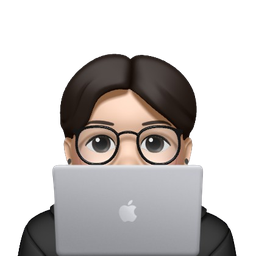
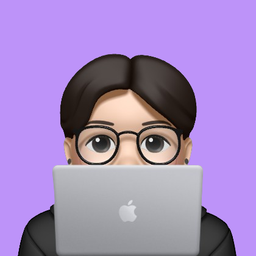
feat: project screenshots, smaller headings, richer Vanrays HUB detail page
Favicon now uses the memoji on a purple background. Project card titles
and the two project detail hero headings are scaled down. Semantic
Search and Vanrays HUB cards show real product screenshots as their
background image, and the Vanrays HUB page adds a Product section with
a dashboard screenshot plus a new Infrastructure section covering
isolated Railway PR previews and Supabase auth. Role copy across the
page now distinguishes the admin/booker console from the owner/cleaner/
maintenance portals.

diff --git a/src/app/projects/vanrays-hub/page.tsx b/src/app/projects/vanrays-hub/page.tsx
@@ -1,19 +1,22 @@
 import type { Metadata } from 'next';
+import Image from 'next/image';
 import Link from 'next/link';
 import { Navbar, type NavSection } from '@/app/components/molecules/Navbar/Navbar';
 import { ArrowRight } from '@/app/components/atoms/icons';
 
 const NAV: NavSection[] = [
-  { id: 'overview', label: 'Overview', n: '01' },
-  { id: 'modules',  label: 'Modules',  n: '02' },
-  { id: 'portals',  label: 'Portals',  n: '03' },
-  { id: 'stack',    label: 'Stack',    n: '04' },
+  { id: 'product',        label: 'Product',        n: '01' },
+  { id: 'overview',       label: 'Overview',       n: '02' },
+  { id: 'modules',        label: 'Modules',        n: '03' },
+  { id: 'portals',        label: 'Portals',        n: '04' },
+  { id: 'infrastructure', label: 'Infrastructure', n: '05' },
+  { id: 'stack',          label: 'Stack',          n: '06' },
 ];
 
 export const metadata: Metadata = {
   title: 'Vanrays HUB — Rosa Reyes',
   description:
-    "Operations platform for Vanrays' rental business: bookings, cleaning, maintenance, and owner settlements in one system, with separate portals for owners, cleaners, and maintenance techs.",
+    "Operations platform for Vanrays' rental business: bookings, cleaning, maintenance, and owner settlements in one system, with a central console for admins and bookers plus scoped portals for owners, cleaners, and maintenance techs.",
 };
 
 const tags = ['React', 'TypeScript', 'Node.js', 'Supabase', 'PostgreSQL', 'Railway'];
@@ -60,7 +63,22 @@ const modules = [
   {
     n: '06',
     title: 'Team & audit',
-    desc: 'Manage bookers, cleaners, and technicians, with portal access per role and a full audit trail of every action in the system.',
+    desc: 'Manage admins, bookers, cleaners, and technicians. Admins and bookers work from the main console; owners, cleaners, and techs get scoped portal access. Full audit trail of every action.',
+  },
+];
+
+const infrastructure = [
+  {
+    n: '01',
+    title: 'Isolated PR previews',
+    tag: 'Railway',
+    desc: 'Every pull request deploys to its own preview environment on Railway, each with its own isolated Postgres database seeded independently of production. QA runs against real flows, bookings, cleanings, settlements, without ever touching live data.',
+  },
+  {
+    n: '02',
+    title: 'Auth & access control',
+    tag: 'Supabase',
+    desc: 'Supabase Auth handles login and session management across the ops console and every portal. Role checks run server-side on top of it, so an owner, cleaner, or tech only ever sees data scoped to them.',
   },
 ];
 
@@ -112,7 +130,7 @@ export default function VanraysHubPage() {
 
           <div className="flex flex-col md:flex-row md:items-end md:justify-between gap-8">
             <div>
-              <h1 className="font-display font-normal text-[clamp(40px,5.5vw,80px)] leading-[1.03] tracking-[-0.025em] text-text mb-5">
+              <h1 className="font-display font-normal text-[clamp(32px,4.5vw,60px)] leading-[1.03] tracking-[-0.025em] text-text mb-5">
                 Vanrays<br />HUB
               </h1>
               <p className="text-[16px] leading-[1.65] text-dim max-w-130">
@@ -129,6 +147,26 @@ export default function VanraysHubPage() {
           </div>
         </section>
 
+        {/* ── Product ── */}
+        <section id="product" className="scroll-mt-25 py-16 md:py-20 border-b border-line">
+          <div className="flex items-center gap-3.5 mb-8 font-mono text-[11px] tracking-[0.16em] uppercase text-accent">
+            <span>Product</span>
+            <span className="flex-1 h-px bg-line" />
+          </div>
+          <div className="rounded-3.5 border-line overflow-hidden border">
+            <div className="border-line text-faint border-b px-3 py-2 font-mono text-[9px] tracking-[0.12em] uppercase">
+              Operations dashboard — live view
+            </div>
+            <Image
+              src="/vanrays-hub-dashboard.png"
+              alt="Vanrays HUB operations dashboard showing today's check-ins, check-outs, cleanings, and an operations whiteboard timeline"
+              width={2000}
+              height={1215}
+              className="w-full"
+            />
+          </div>
+        </section>
+
         {/* ── Overview ── */}
         <section id="overview" className="scroll-mt-25 py-16 md:py-20 border-b border-line">
           <div className="grid grid-cols-1 md:grid-cols-2 gap-12 md:gap-20">
@@ -142,7 +180,7 @@ export default function VanraysHubPage() {
                 Vanrays is a property management company in Madrid with a growing portfolio of short and long-term rentals. Day-to-day operations ran on AppSheet, a no-code tool that worked fine at first but started showing its limits: reservations, cleaning schedules, maintenance tickets, and owner payouts ended up scattered across spreadsheets, forms, and email threads.
               </p>
               <p className="text-[15px] leading-[1.7] text-dim">
-                Vanrays HUB replaces all of that with a real application built around how the team actually works: role-based access for the operations side, plus separate portals for property owners, cleaners, and maintenance techs.
+                Vanrays HUB replaces all of that with a real application built around how the team actually works: admins and bookers run day-to-day operations from a central console, while owners, cleaners, and maintenance techs each get a portal scoped to their role.
               </p>
             </div>
 
@@ -197,7 +235,7 @@ export default function VanraysHubPage() {
             <span className="flex-1 h-px bg-line" />
           </div>
           <p className="text-[15px] leading-[1.7] text-dim mb-10 max-w-155">
-            Three roles, three logins, each scoped to what that person actually needs to see.
+            Owners, cleaners, and maintenance techs each get a login scoped to exactly what they need to see, no access to the main console. Admins and bookers work from the console directly, with full visibility across reservations, cleaning, maintenance, and settlements.
           </p>
 
           <div className="grid grid-cols-1 md:grid-cols-3 gap-4">
@@ -210,6 +248,34 @@ export default function VanraysHubPage() {
                   <span className="font-mono text-[10px] tracking-[0.1em] text-faint truncate">{p.path}</span>
                 </div>
                 <p className="text-[12px] leading-[1.65] text-dim">{p.desc}</p>
+              </div>
+            ))}
+          </div>
+        </section>
+
+        {/* ── Infrastructure ── */}
+        <section id="infrastructure" className="scroll-mt-25 py-16 md:py-20 border-b border-line">
+          <div className="flex items-center gap-3.5 mb-10 font-mono text-[11px] tracking-[0.16em] uppercase text-accent">
+            <span>Infrastructure</span>
+            <span className="flex-1 h-px bg-line" />
+          </div>
+          <p className="text-[15px] leading-[1.7] text-dim mb-10 max-w-155">
+            Built so QA never has to worry about breaking anything real.
+          </p>
+
+          <div className="grid grid-cols-1 md:grid-cols-2 gap-4">
+            {infrastructure.map((item) => (
+              <div key={item.n} className="rounded-3.5 border border-line bg-surface p-5 flex flex-col gap-3">
+                <div className="flex items-center justify-between">
+                  <span className="font-mono text-[11px] tracking-[0.14em] text-accent">{item.n}</span>
+                  <span className="font-mono text-[10px] tracking-[0.1em] text-faint px-2 py-0.75 rounded border border-line">
+                    {item.tag}
+                  </span>
+                </div>
+                <h3 className="font-display font-normal text-[18px] tracking-[-0.01em] text-text">
+                  {item.title}
+                </h3>
+                <p className="text-[12px] leading-[1.65] text-dim">{item.desc}</p>
               </div>
             ))}
           </div>

diff --git a/data/profile.ts b/data/profile.ts
@@ -83,6 +83,7 @@ export const projects: Project[] = [
     tags: ['Python', 'FastAPI', 'NLP', 'LLMs', 'Pydantic AI'],
     github: '',
     url: '/projects/semantic-search',
+    image: '/semantic-search-poc.png',
   },
   {
     title: 'Vanrays HUB',
@@ -93,6 +94,7 @@ export const projects: Project[] = [
     tags: ['React', 'TypeScript', 'Node.js', 'Supabase', 'Railway'],
     github: '',
     url: '/projects/vanrays-hub',
+    image: '/vanrays-hub-dashboard.png',
   },
   {
     title: 'Stylib Visual Search Widget',

diff --git a/src/app/projects/semantic-search/page.tsx b/src/app/projects/semantic-search/page.tsx
@@ -491,7 +491,7 @@ export default function SemanticSearchPage() {
             ))}
           </div>
 
-          <h1 className="font-display text-text mb-8 text-[clamp(48px,7vw,96px)] leading-[1.02] font-normal tracking-[-0.03em]">
+          <h1 className="font-display text-text mb-8 text-[clamp(36px,5vw,68px)] leading-[1.02] font-normal tracking-[-0.03em]">
             Semantic Search
             <br />
             Engine

diff --git a/src/app/components/molecules/Cards/Project/index.tsx b/src/app/components/molecules/Cards/Project/index.tsx
@@ -67,7 +67,7 @@ export default function ProjectCard({
           <span>{year}</span>
         </div>
 
-        <h3 className="font-display text-text mb-3 text-[32px] font-normal tracking-[-0.01em]">
+        <h3 className="font-display text-text mb-3 text-[22px] font-normal tracking-[-0.01em]">
           {title}
         </h3>
 
